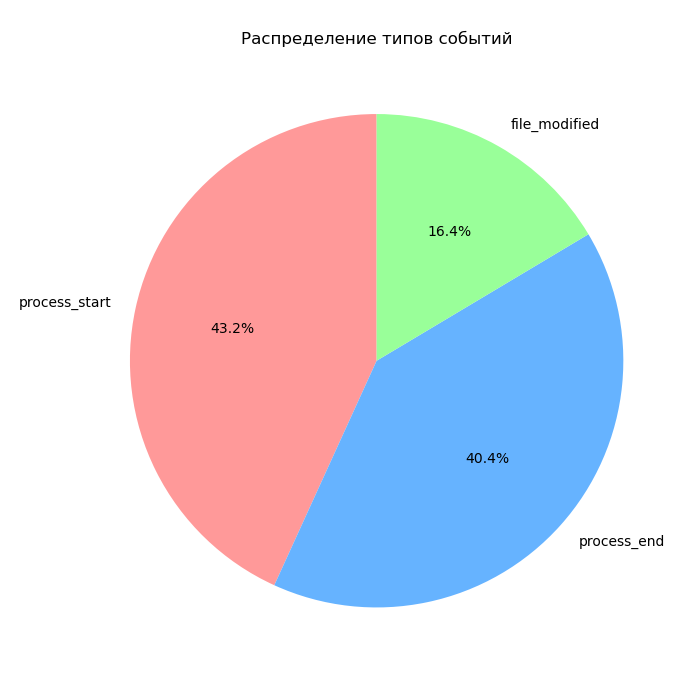
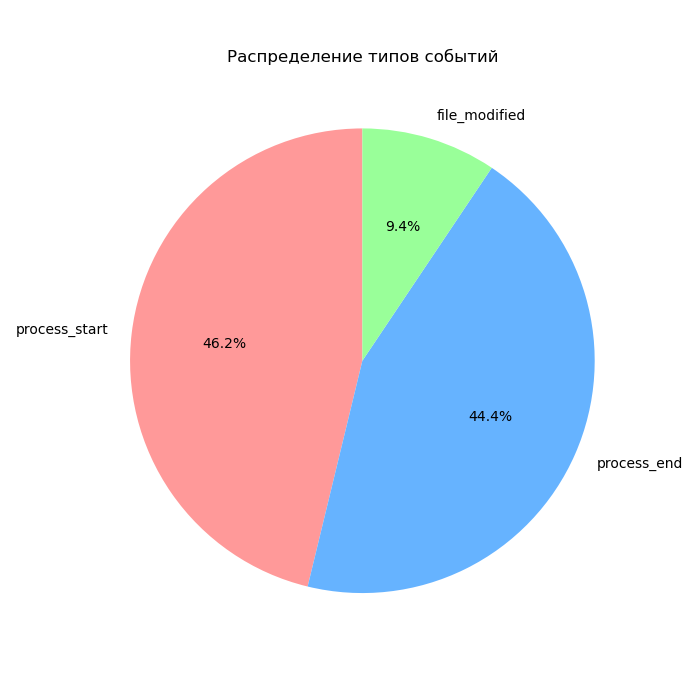
changes

diff --git a/audit/report.md b/audit/report.md
@@ -1,29 +1,29 @@
 # Отчёт по логам событий
 
-Дата генерации: 2024-12-17 02:49:11
+Дата генерации: 2024-12-17 03:10:23
 
-## Общее количество событий: 213
+## Общее количество событий: 383
 
 ## Распределение событий по типам:
-- process_start: 92
-- process_end: 86
-- file_modified: 35
+- process_start: 177
+- process_end: 170
+- file_modified: 36
 
 ## Топ изменяемых файлов:
-- /Users/alicee/Desktop/Work_Main/linux_prog/audit/code/interface.py: 17
+- /Users/alicee/Desktop/Work_Main/linux_prog/audit/code/interface.py: 18
 - /Users/alicee/Desktop/Work_Main/linux_prog/audit/code/test.sh: 11
 - /Users/alicee/Desktop/Work_Main/linux_prog/audit/code/event_log.json: 6
 - /Users/alicee/Desktop/Work_Main/linux_prog/audit/code/loggerr.py: 1
 
 ## Топ запускаемых процессов:
-- mdworker_shared: 28
-- python3.12: 18
+- mdworker_shared: 59
+- python3.12: 26
+- zsh: 10
+- ps: 9
 - wakatime-cli-darwin-arm64: 9
-- ps: 6
-- Notion Helper (Renderer): 5
 
 ## Топ завершённых процессов:
-- Unknown: 86
+- Unknown: 170
 
 ## Графики:
 ![График](graphs/file_modifications.png)
